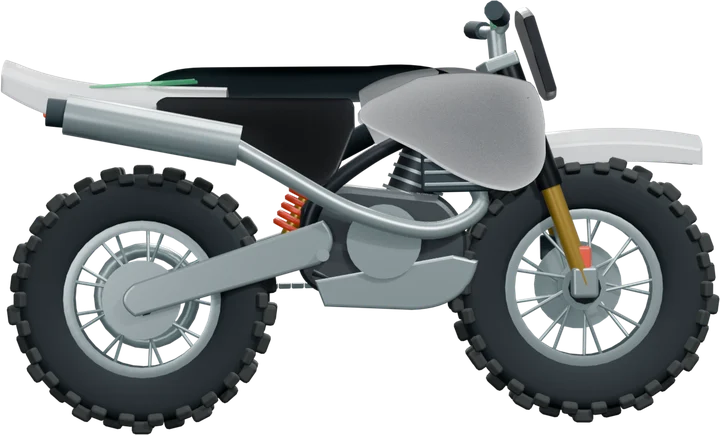
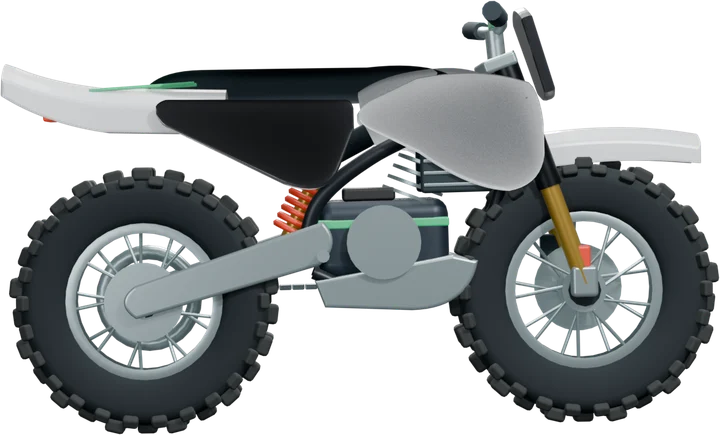
v97 (anteprima): La Silenziosa senza scarico né fiammata del turbo, con pacco batterie al posto del motore
Claude-Session: https://claude.ai/code/session_016p7uesSpF6e3Ux5zS8iCtK

diff --git a/scene3d.js b/scene3d.js
@@ -948,8 +948,13 @@ export function createWorld(canvas) {
   const brakeLightMat = new T.MeshStandardMaterial({ color: '#fc441f', roughness: .3, emissive: '#ff2a00', emissiveIntensity: .3 });
   box(.15, .05, .04, brakeLightMat, chassis, 0, 1.19, 1.16);
   // scarico 4 tempi: collettore curvo e silenziatore
-  tube([[.05, .97, -.4], [.12, .8, -.47], [.21, .71, -.3], [.25, .78, 0], [.28, .95, .3], [.29, 1.04, .45]], .033, alloy, chassis, 40);
-  rod([.29, 1.04, .43], [.31, 1.17, 1.06], .075, pipeMat, chassis); rod([.31, 1.17, 1.05], [.315, 1.18, 1.13], .052, black, chassis);
+  const exhaustParts = [tube([[.05, .97, -.4], [.12, .8, -.47], [.21, .71, -.3], [.25, .78, 0], [.28, .95, .3], [.29, 1.04, .45]], .033, alloy, chassis, 40),
+    rod([.29, 1.04, .43], [.31, 1.17, 1.06], .075, pipeMat, chassis), rod([.31, 1.17, 1.05], [.315, 1.18, 1.13], .052, black, chassis)];
+  // v97 · elettrica: pacco batterie al posto del motore (niente scarico)
+  const battMat = mat('#2b3640', .45, .35), battGreen = new T.MeshStandardMaterial({ color: '#19c37d', roughness: .35, emissive: '#0c6b42', emissiveIntensity: .6 });
+  for (const m of exhaustParts) m.userData.keep = true;   // fuori dall'unione delle geometrie: si devono poter nascondere
+  const battery = new T.Group(); chassis.add(battery); battery.visible = false;
+  box(.25, .3, .5, battMat, battery, 0, .68, -.1); box(.256, .035, .5, battGreen, battery, 0, .74, -.1); box(.2, .05, .2, mat('#14181c', .6), battery, 0, .85, -.05); battery.traverse(o => { if (o.isMesh) o.userData.keep = true; });
   // forcella a steli rovesciati, piastre, parafango, tabella e manubrio
   for (const side of [-1, 1]) {
     const zAt = y => ZF(-.86 + (y - .48) * .3375);
@@ -1118,6 +1123,7 @@ export function createWorld(canvas) {
   })();
   if (envTex) for (const [m, k] of [[plastic, .9], [accent, .9], [helmetMat, .9], [sidePanel, .9], [alloy, 1.2], [rimMat, 1.2], [pipeMat, 1.3], [gold, 1.1], [frameMat, .8], [engMat, .7], [forkMat, .9], [chamberMat, 1.2], [vintageMat, 1.2], [hubMat, .8], [studMat, 1], [seatMat, .35], [black, .4], [spring, .7], [lensMat, 1.2], [guardMat, .5], [rallyMat, .9], [screenMat, 1.2]]) { m.envMap = envTex; m.envMapIntensity = k; m.needsUpdate = true; }
   for (const g of [...wheels, chassis, front, rider, upper, body, head]) mergeGroup(g);
+  let electricNow = false;
   const meshesWith = m => { const out = []; bike.traverse(o => { if (o.isMesh && o.material === m) out.push(o); }); return out; };
   let customKey = '';
   function paintSideDecal(kind, a, b) {
@@ -1140,7 +1146,10 @@ export function createWorld(canvas) {
     const lamp = parts.light?.id === 'led' || parts.light?.id === 'boanal' || parts.light?.id === 'factory' || !!look.vintage || !!look.boanal || !!look.rally;
     for (const m of meshesWith(lampMat)) m.visible = lamp;
     lampGlow.visible = lamp; lampOpt = lamp;
-    for (const m of meshesWith(chamberMat)) m.visible = !!look.twoStroke;
+    for (const m of meshesWith(chamberMat)) m.visible = !!look.twoStroke && !look.electric;
+    electricNow = !!look.electric; battery.visible = electricNow;
+    for (const m of exhaustParts) if (m) m.visible = !electricNow;
+    for (const m of meshesWith(engMat)) m.visible = !electricNow;
     for (const m of meshesWith(vintageMat)) m.visible = !!look.vintage;
     for (const m of meshesWith(seatMat)) m.visible = !look.trial;
     const st = parts.studs?.id || 'none';
@@ -2198,7 +2207,7 @@ export function createWorld(canvas) {
     lampGlow.material.opacity = .45 + (weatherNow.dusk || 0) * .5 + (weatherNow.fog || 0) * .4;
     lampGlow.visible = lampOpt || (weatherNow.night || 0) > .1;   // v84 · di notte il faro è sempre acceso
 
-    flame.visible = flameCore.visible = boostAmount > 0 || (s.grappa || 0) > 0;
+    flame.visible = flameCore.visible = !electricNow && (boostAmount > 0 || (s.grappa || 0) > 0);
     flameMat.color.set(boostAmount > 0 ? '#ffb12b' : '#3fa9ff');
     if (flame.visible) { const f = .8 + Math.random() * .5; flame.scale.set(1, f, 1); flameCore.scale.set(1, f * .9, 1); }
 
